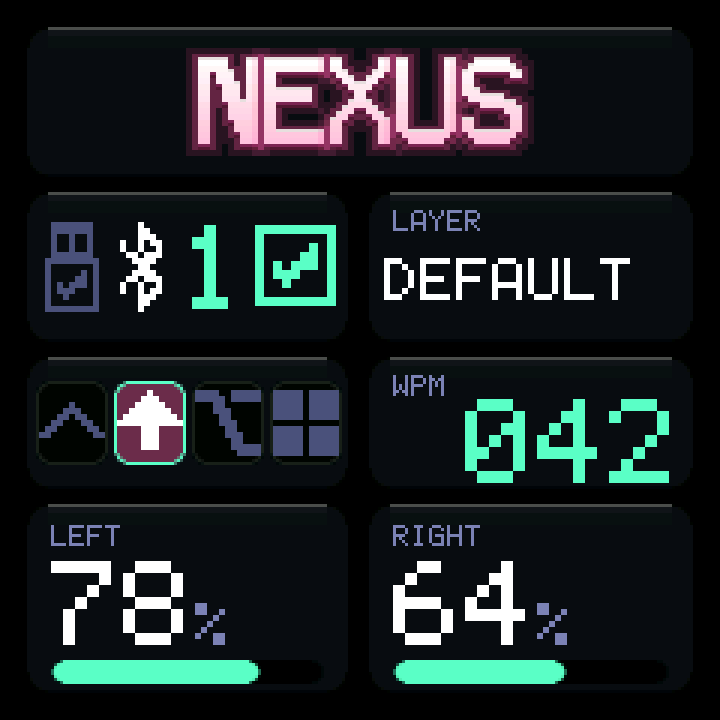
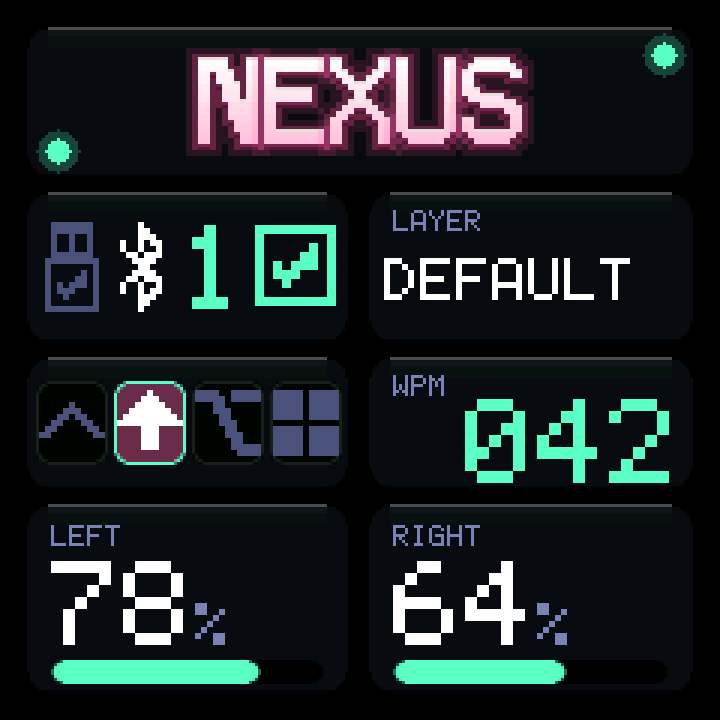
feat: a Studio dot on the brand plate, opposite the jiggler
The plate is the one card that carries no data of its own, so it is where a
flag can live without pushing anything off the screen. The jiggler already
had the top right; ZMK Studio unlocked takes the bottom left, in the theme
accent rather than green - unlocked is not a healthy fact, it means the
keymap is editable from a host right now. Diagonally opposite so the two can
never be read as each other. Nothing is drawn when either is off.

NEXUS_STATUS_STUDIO is BIT(8), so NEXUS_STATUS_ALL widens to 0x1FF; the
pending mask was already uint32_t and atomic, so nothing else moves.

The bit also had to be added to the brand band in on_status(), which the
comment two lines above it warns about: a flag that never repaints does not
look like a missing invalidate, it looks like a feature that is broken. The
layout test now checks that both bits reach that band, that each dot stays
inside the plate, that neither sits under the wordmark ink, and that they
land in opposite corners.

Kconfig gate depends on ZMK_STUDIO, so builds without Studio are untouched.
The anti-idle help text still described a cursor icon on the LINK card, which
has not been true for some time - corrected alongside.

Changed region(s): [[0.8861, 0.0306, 0.9778, 0.1222], [0.0306, 0.1833, 0.1222, 0.2444]]

diff --git a/src/ui/home.c b/src/ui/home.c
@@ -257,23 +257,36 @@ static void draw_link(const struct nexus_status *st)
  * lock state you cannot act on is not worth a permanent fixture on a 240px
  * panel; the host already shows it.
  *
- * The jiggler is different: it is a mode YOU turned on, it is invisible
- * otherwise, and forgetting it is running is the actual failure mode. So it
- * gets the corner, green, with a soft halo - lit when active, and nothing at
- * all when it is not.
+ * The two that are left are different: each is a mode YOU turned on, each is
+ * invisible otherwise, and forgetting it is on is the actual failure mode.
+ * The jiggler takes the top right in green; Studio unlocked takes the bottom
+ * left in the accent, diagonally opposite so they can never be read as each
+ * other. Both are a solid disc inside a soft halo, so they look lit rather
+ * than like a stray pixel, and neither draws anything at all when it is off.
  */
+static void dot(int x, int y, gfx_color c)
+{
+	const int r = 4;
+
+	gfx_disc(x, y, r + 3, c, 60);
+	gfx_disc(x, y, r, c, GFX_OPAQUE);
+}
+
 static void draw_flags(const struct nexus_status *st)
 {
-	if (IS_ENABLED(CONFIG_NEXUS_ANTI_IDLE_STATUS)) {
-		const struct nexus_theme *t = nexus_theme();
-		const int r = 4;
-		int y = BRAND_Y + 9;
-		int x = COL_L + NEXUS_CONTENT_W - 10;
+	const struct nexus_theme *t = nexus_theme();
 
-		if (st->anti_idle) {
-			gfx_disc(x, y, r + 3, t->success, 60);
-			gfx_disc(x, y, r, t->success, GFX_OPAQUE);
-		}
+	if (IS_ENABLED(CONFIG_NEXUS_ANTI_IDLE_STATUS) && st->anti_idle) {
+		dot(COL_L + NEXUS_CONTENT_W - 10, BRAND_Y + 9, t->success);
+	}
+
+	/*
+	 * Studio unlocked. The accent rather than success, because this is not
+	 * a healthy-green fact - it means the keymap is editable from a host
+	 * right now, which is worth noticing rather than reassuring.
+	 */
+	if (IS_ENABLED(CONFIG_NEXUS_STUDIO_STATUS) && st->studio) {
+		dot(COL_L + 10, BRAND_Y + BRAND_H - 9, t->accent);
 	}
 }
 
@@ -438,7 +451,8 @@ static void on_status(const struct nexus_status *st, uint32_t changed)
 	/* Locks and the jiggler live on the brand band now, not row 1. Marking
 	 * the wrong band is not a crash, it is worse: the dot simply never
 	 * updates and the bug looks like the feature is broken. */
-	if (changed & (NEXUS_STATUS_LOCKS | NEXUS_STATUS_JIGGLE)) {
+	if (changed & (NEXUS_STATUS_LOCKS | NEXUS_STATUS_JIGGLE |
+		       NEXUS_STATUS_STUDIO)) {
 		nexus_screen_invalidate_rows(BRAND_Y, BRAND_Y + BRAND_H);
 	}
 	if (changed & (NEXUS_STATUS_ENDPOINT | NEXUS_STATUS_LAYER)) {

diff --git a/tests/ui/test_home_layout.py b/tests/ui/test_home_layout.py
@@ -310,6 +310,41 @@ def main():
         ok(face_w('NEXUS', asz) + 2 * GLOW_CELLS * asz
            <= C['NEXUS_CONTENT_W'], 'About wordmark fits the card width')
 
+    print('\nCorner dots - jiggler and Studio')
+    # Two flags on the one card that carries no data of its own. They have to
+    # stay inside the plate and off the letters: the wordmark is drawn after
+    # them, so a dot that strays under the name is hidden by it, and one that
+    # strays outside the plate is painted over by the next card.
+    RAD = 4 + 3   # solid disc plus its halo
+    calls = re.findall(r"\bdot\(([^;]+?), t->(\w+)\);", src)
+    ok(len(calls) == 2, 'the plate places exactly two dots (found %d)'
+       % len(calls))
+    seen = []
+    for args, colour in calls:
+        xs, ys = args.rsplit(', ', 1)
+        x, y = eval(xs, {}, C), eval(ys, {}, C)
+        seen.append((x, y))
+        ok(x - RAD >= C['NEXUS_PAD'] and x + RAD <= 240 - C['NEXUS_PAD'],
+           'dot at x=%d (%s) stays in the plate horizontally' % (x, colour))
+        fits('dot at y=%d (%s)' % (y, colour), y - RAD, y + RAD + 1,
+             C['BRAND_Y'], C['BRAND_H'])
+        # the wordmark is centred, so its ink runs either side of x=120
+        half = face_w('NEXUS', hs) // 2 + GLOW_CELLS * hs
+        ok(abs(x - 120) - RAD > half,
+           'dot at x=%d clears the wordmark ink (+/-%d of centre)'
+           % (x, half))
+    # A dot that is never repainted looks like a feature that does not work.
+    band = src.split('nexus_screen_invalidate_rows(BRAND_Y')[0]
+    band = band[band.rfind('if (changed'):]
+    for bit in ('NEXUS_STATUS_JIGGLE', 'NEXUS_STATUS_STUDIO'):
+        ok(bit in band, '%s repaints the brand plate' % bit)
+
+    if len(seen) == 2:
+        mid = C['BRAND_Y'] + C['BRAND_H'] // 2
+        (x1, y1), (x2, y2) = seen
+        ok((x1 - 120) * (x2 - 120) < 0 and (y1 - mid) * (y2 - mid) < 0,
+           'the two dots sit in opposite corners, not side by side')
+
     print('\nHierarchy')
     ok('nexus_draw_caption(' in src, 'card headings are captions again')
     ok(str(C['NEXUS_TXT_BIG']) in src or True, '')

diff --git a/src/status/zmk_events.c b/src/status/zmk_events.c
@@ -330,6 +330,29 @@ static void refresh_anti_idle(bool active)
 }
 #endif
 
+#if IS_ENABLED(CONFIG_NEXUS_STUDIO_STATUS)
+/*
+ * ZMK Studio's lock state.
+ *
+ * UNLOCKED is the state worth showing: it is the one in which the keymap can
+ * be rewritten from under you, which is exactly the thing a dongle with a
+ * screen should be able to tell you at a glance. LOCKED and UNLOCKING both
+ * read as "not editable" and share the off state.
+ */
+#include <zmk/studio/core.h>
+
+static void refresh_studio(enum zmk_studio_core_lock_state state)
+{
+	struct nexus_status *st = nexus_status_mut();
+	bool open = (state == ZMK_STUDIO_CORE_LOCK_STATE_UNLOCKED);
+
+	if (st->studio != open) {
+		st->studio = open;
+		nexus_status_mark(NEXUS_STATUS_STUDIO);
+	}
+}
+#endif
+
 /* ------------------------------------------------------------- listener -- */
 
 static int nexus_status_listener(const zmk_event_t *eh)
@@ -364,6 +387,11 @@ static int nexus_status_listener(const zmk_event_t *eh)
 #if IS_ENABLED(CONFIG_NEXUS_ANTI_IDLE_STATUS)
 	else if (as_zmk_anti_idle_state(eh)) {
 		refresh_anti_idle(as_zmk_anti_idle_state(eh)->active);
+	}
+#endif
+#if IS_ENABLED(CONFIG_NEXUS_STUDIO_STATUS)
+	else if (as_zmk_studio_core_lock_state_changed(eh)) {
+		refresh_studio(as_zmk_studio_core_lock_state_changed(eh)->state);
 	}
 #endif
 	else if (as_zmk_battery_state_changed(eh)) {
@@ -414,6 +442,9 @@ ZMK_SUBSCRIPTION(nexus_status, zmk_activity_state_changed);
 #endif
 #if IS_ENABLED(CONFIG_NEXUS_ANTI_IDLE_STATUS)
 ZMK_SUBSCRIPTION(nexus_status, zmk_anti_idle_state);
+#endif
+#if IS_ENABLED(CONFIG_NEXUS_STUDIO_STATUS)
+ZMK_SUBSCRIPTION(nexus_status, zmk_studio_core_lock_state_changed);
 #endif
 #if IS_ENABLED(CONFIG_ZMK_SPLIT_BLE_CENTRAL_BATTERY_LEVEL_FETCHING)
 ZMK_SUBSCRIPTION(nexus_status, zmk_peripheral_battery_state_changed);

diff --git a/scripts/render_ui.py b/scripts/render_ui.py
@@ -466,6 +466,17 @@ def home(cv, t, st):
 
     # brand plate
     u.card(K['COL_L'], K['BRAND_Y'], CONTENT_W, K['BRAND_H'])
+
+    # Corner dots: jiggler top right, Studio bottom left. Diagonally opposite
+    # so they cannot be confused at a glance.
+    def dot(x, y, c):
+        cv.disc(x, y, 7, c, 60)
+        cv.disc(x, y, 4, c)
+
+    if st.get('anti_idle'):
+        dot(K['COL_L'] + CONTENT_W - 10, K['BRAND_Y'] + 9, t['success'])
+    if st.get('studio'):
+        dot(K['COL_L'] + 10, K['BRAND_Y'] + K['BRAND_H'] - 9, t['accent'])
     u.wordmark(W // 2,
                K['BRAND_Y'] + (K['BRAND_H'] - wordmark_h(2)) // 2, 'NEXUS', 2)
 
@@ -1108,7 +1119,8 @@ DIAG_ROWS = [('FIRMWARE', 'V1.0.0'), ('BOARD', 'NICE_NANO'),
              ('L/R BATT', '78/64'), ('UI STATIC', '5984B'),
              ('UPTIME', '02:14'), ('BACK', '')]
 STATUS = dict(on_usb=False, usb=True, profile=0, bonded=True, connected=True,
-              layer='DEFAULT', mods=0b0010, wpm=42, batt=[78, 64])
+              layer='DEFAULT', mods=0b0010, wpm=42, batt=[78, 64],
+              anti_idle=True, studio=True)
 
 
 # Nearest-neighbour, integer, no smoothing.

diff --git a/include/nexus/status.h b/include/nexus/status.h
@@ -57,7 +57,8 @@ enum nexus_battery_band {
 #define NEXUS_STATUS_LOCKS    BIT(5)
 #define NEXUS_STATUS_LINKS    BIT(6)
 #define NEXUS_STATUS_JIGGLE   BIT(7)
-#define NEXUS_STATUS_ALL      0xFF
+#define NEXUS_STATUS_STUDIO   BIT(8)
+#define NEXUS_STATUS_ALL      0x1FF
 
 struct nexus_status {
 	const char *layer_name;
@@ -105,6 +106,11 @@ struct nexus_status {
 	 * present in the struct so widgets need no #ifdef; simply never true
 	 * without the module that reports it. */
 	bool anti_idle;
+
+	/* ZMK Studio has been unlocked, so the keymap is live-editable. Same
+	 * rule as anti_idle: always in the struct, never true unless the
+	 * build has Studio and CONFIG_NEXUS_STUDIO_STATUS to report it. */
+	bool studio;
 };
 
 /** Live model. Read-only for everything outside src/status/. */

diff --git a/docs/configuration.md b/docs/configuration.md
@@ -252,7 +252,8 @@ sensor-bindings = <&nexus_theme_enc NEXUS_ACT_THEME_NEXT NEXUS_ACT_THEME_PREV
 | --- | --- | --- |
 | `CONFIG_NEXUS_SPLIT_SWAP_SIDES` | `n` | ZMK numbers peripherals by pairing order, not by physical side. Set this if LEFT and RIGHT are the wrong way round. |
 | `CONFIG_NEXUS_STATUS_STALE_MS` | `0` | Blank a half's battery after N ms of silence. **Off by default**: a half with `CONFIG_ZMK_SLEEP` stops reporting when idle, so any timeout eventually blanks a good reading. An idle half has a battery level; we just heard it a while ago. |
-| `CONFIG_NEXUS_ANTI_IDLE_STATUS` | `n` | Cursor icon showing whether the mouse jiggler is on. Needs the `&anti_idle` behavior, which comes from snake-module, not from NEXUS. |
+| `CONFIG_NEXUS_ANTI_IDLE_STATUS` | `n` | Green dot, top right of the brand plate, while the mouse jiggler is on. Needs the `&anti_idle` behavior, which comes from snake-module, not from NEXUS. |
+| `CONFIG_NEXUS_STUDIO_STATUS` | `y` | Accent dot, bottom left of the brand plate, while ZMK Studio is unlocked - the keymap can be rewritten from a host right now. Diagonally opposite the jiggler dot so the two can never be confused. Needs `CONFIG_ZMK_STUDIO`; nothing is drawn when locked. |
 
 Battery levels require `CONFIG_ZMK_SPLIT_BLE_CENTRAL_BATTERY_LEVEL_FETCHING=y`
 on the dongle and `CONFIG_ZMK_BATTERY_REPORTING=y` on the halves. Without them

diff --git a/docs/ui.md b/docs/ui.md
@@ -66,6 +66,14 @@ The title is drawn as glass -- a near-white face over a soft accent halo, with
 a one-pixel bevel -- in the active theme's colours. `CONFIG_NEXUS_PRODUCT` sets
 the word; nothing sits under it, deliberately.
 
+The plate's two corners carry the only flags on the dashboard, diagonally
+opposite so they can never be read as each other: **top right, green**, the
+mouse jiggler is running (`CONFIG_NEXUS_ANTI_IDLE_STATUS`); **bottom left, in
+the theme accent**, ZMK Studio is unlocked and the keymap is editable from a
+host right now (`CONFIG_NEXUS_STUDIO_STATUS`). Each is a solid disc inside a
+soft halo, and neither draws anything at all when it is off -- an indicator
+that is always there and usually grey is one more thing to learn to ignore.
+
 Gutters are 5px rather than the usual 7, which is what buys the link row the
 height for a readable transport cluster.
 
